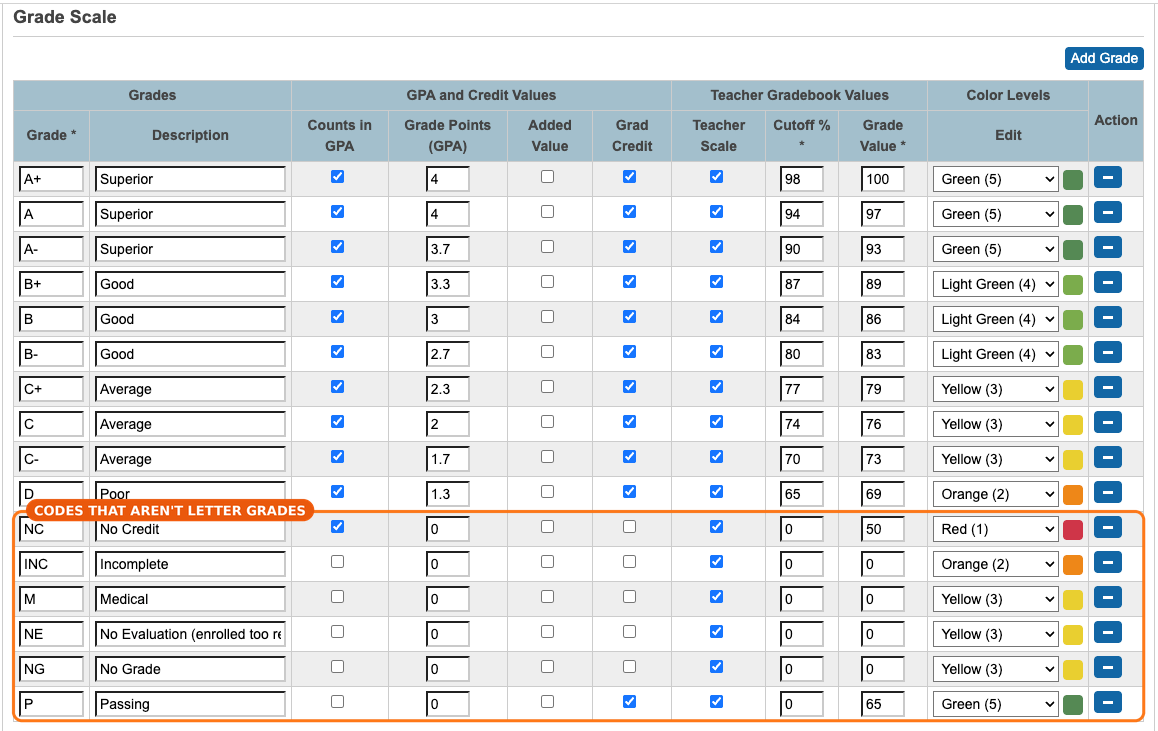
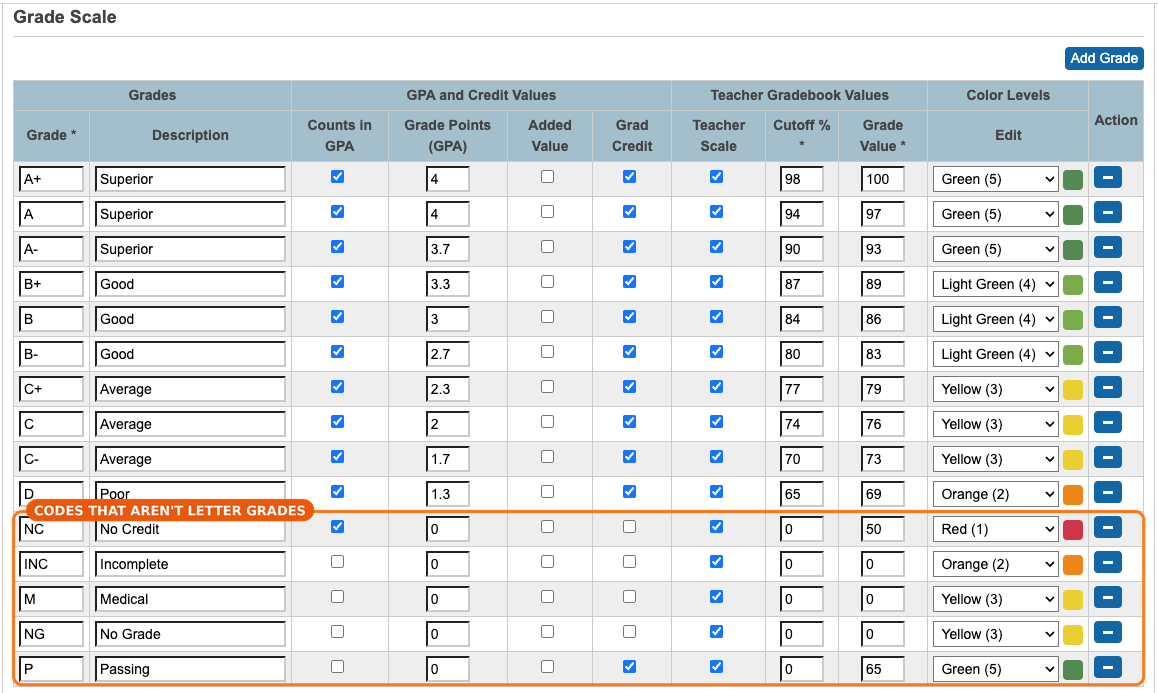
Report Cards: NG + two comments replaces NE

diff --git a/report-cards-admin.html b/report-cards-admin.html
@@ -152,7 +152,7 @@ body.narrow table.codes td.c{width:auto}
 <section class="step" id="step-4"><span class="eyebrow">STEP 4 OF 5</span><h2>Click Generate Reports</h2><ol class="steps"><li><span class="num">1</span><div>The blue <span class="ui">Generate Reports</span> button is at the end of the row.</div></li><li><span class="num">2</span><div>The cards open in a <b>new tab</b>.</div></li><li><span class="num">3</span><div>A big group takes a little while to load &mdash; wait for the buttons to show up in the box at the top left.</div></li></ol><div class="pager"><button class="ghost" data-go="step-3">Back</button><button data-go="step-5">Next: Print or Save as PDF &rarr;</button></div></section>
 
 <section class="step" id="step-5"><span class="eyebrow">STEP 5 OF 5</span><h2>Click Print, then pick a printer or Save as PDF</h2><ol class="steps"><li><span class="num">1</span><div>In the box at the top left, click <span class="ui">Print</span>.</div></li><li><span class="num">2</span><div>In the print window, <b>Layout</b> should already say <b>Landscape</b> and <b>Margins</b> <b>Default</b>.</div></li><li><span class="num">3</span><div>Pick your printer &mdash; or change <b>Destination</b> to <b>Save as PDF</b>.</div></li></ol><figure class="fig"><a href="rc-3.png" target="_blank" rel="noopener"><img src="rc-3.png" alt="the report cards in a new tab with the Print box"></a><div class="ph"><span class="pl">PICTURE 3</span>Screenshot coming: the report cards in a new tab with the Print box.</div><figcaption><b>PICTURE 3</b> &mdash; The report cards open in a new tab. Click Print in the box at the top left (the card is blurred here).</figcaption></figure><div class="callout"><div class="clabel">GOOD TO KNOW</div><div class="gk"><span class="ic">&#9995;</span><span>Skip <b>Email</b> and <b>Archive Reports</b>. Nicole saves each quarter's cards once &mdash; Email isn't used at Summit.</span></div><div class="gk"><span class="ic">&#128070;</span><span>Double-click a card to jump to that student's pages in PowerSchool.</span></div><div class="gk"><span class="ic">&#9998;&#65039;</span><span>Wrong grade or comment on a card? Ask the teacher to fix it in PowerTeacher Pro, then generate the card again. Still wrong? Reach out.</span></div></div><div class="pager"><button class="ghost" data-go="step-4">Back</button><button data-go="codes">Next: Grade codes on a card &rarr;</button></div></section>
-<section class="step" id="codes"><span class="eyebrow">REFERENCE</span><h2>Grade codes you&rsquo;ll see on a card</h2><p class="lead"><b>A+</b> to <b>D</b> are the regular letter grades. These are the codes that <b>aren&rsquo;t</b> letter grades &mdash; what each one means and whether it counts in GPA.</p><table class="codes"><thead><tr><th>CODE</th><th>MEANS</th><th>WHEN IT&rsquo;S USED</th><th>GPA</th></tr></thead><tbody><tr class="new"><td class="c">NE</td><td><b>No Evaluation</b></td><td>The student enrolled <b>too recently to be evaluated</b> &mdash; started days before the quarter ended. Prints with the comment <i>&ldquo;Enrolled too recently to be evaluated this quarter.&rdquo;</i></td><td class="g"><span class="pill no">NOT COUNTED</span></td></tr><tr><td class="c">NG</td><td><b>No Grade</b></td><td>The student was <b>enrolled but did not attend</b> the class &mdash; most often ESY / summer session. A placeholder, not a grade.</td><td class="g"><span class="pill no">NOT COUNTED</span></td></tr><tr><td class="c">INC</td><td><b>Incomplete</b></td><td>Work is still owed. The teacher replaces it with a real grade once the work is in.</td><td class="g"><span class="pill no">NOT COUNTED</span></td></tr><tr><td class="c">M</td><td><b>Medical</b></td><td>The student was out for medical reasons and could not be graded.</td><td class="g"><span class="pill no">NOT COUNTED</span></td></tr><tr><td class="c">NC</td><td><b>No Credit</b></td><td>The <b>failing grade</b> &mdash; below 65%, or no credit for the class (for example 30+ absences in a term). The only code that counts in GPA, as 0.</td><td class="g"><span class="pill yes">COUNTS &middot; 0 PTS</span></td></tr><tr><td class="c">P</td><td><b>Passing</b></td><td>Passed and earned credit, with no letter grade.</td><td class="g"><span class="pill no">NOT COUNTED</span></td></tr></tbody></table><figure class="fig"><a href="rc-4.png" target="_blank" rel="noopener"><img src="rc-4.png" alt="the Default grade scale in PowerSchool with the six non-letter codes boxed"></a><div class="ph"><span class="pl">PICTURE 4</span>Screenshot coming: the Default grade scale in PowerSchool.</div><figcaption><b>PICTURE 4</b> &mdash; Summit&rsquo;s Default grade scale (admin view): the Counts in GPA column is what decides whether a code touches GPA.</figcaption></figure><div class="callout"><div class="clabel">GOOD TO KNOW</div><div class="gk"><span class="ic">&#9888;&#65039;</span><span><b>A grade is never left blank.</b> An empty grade prints as an underscore ( _ ) on the card, which looks like a missing grade. A code with a comment is what&rsquo;s used instead.</span></div><div class="gk"><span class="ic">&#9998;&#65039;</span><span>Teachers enter these in PowerTeacher Pro (Score Inspector), the same way as a letter grade. The admin side is view-only.</span></div><div class="gk"><span class="ic">&#128197;</span><span><b>NE</b> only ever shows on that quarter&rsquo;s card &mdash; a too-new enrollment is left out when quarter grades are stored, so it never becomes a historical grade.</span></div></div><div class="pager"><button class="ghost" data-go="step-5">Back</button><button data-go="start">Start over</button></div></section>
+<section class="step" id="codes"><span class="eyebrow">REFERENCE</span><h2>Grade codes you&rsquo;ll see on a card</h2><p class="lead"><b>A+</b> to <b>D</b> are the regular letter grades. These are the codes that <b>aren&rsquo;t</b> letter grades &mdash; what each one means and whether it counts in GPA.</p><table class="codes"><thead><tr><th>CODE</th><th>MEANS</th><th>WHEN IT&rsquo;S USED</th><th>GPA</th></tr></thead><tbody><tr><td class="c">NG</td><td><b>No Grade</b></td><td>The student <b>couldn&rsquo;t earn credit, through no fault of their own</b>. The comment says why &mdash; pick the one that fits:<ul class="bul" style="margin-top:6px"><li><i>&ldquo;Enrolled too recently to earn credit this quarter.&rdquo;</i></li><li><i>&ldquo;Not enough class time to earn credit this quarter.&rdquo;</i></li></ul></td><td class="g"><span class="pill no">NOT COUNTED</span></td></tr><tr><td class="c">INC</td><td><b>Incomplete</b></td><td>Work is still owed. The teacher replaces it with a real grade once the work is in.</td><td class="g"><span class="pill no">NOT COUNTED</span></td></tr><tr><td class="c">M</td><td><b>Medical</b></td><td>The student was out for medical reasons and could not be graded.</td><td class="g"><span class="pill no">NOT COUNTED</span></td></tr><tr><td class="c">NC</td><td><b>No Credit</b></td><td>The <b>failing grade</b> &mdash; below 65%, or no credit for the class (for example 30+ absences in a term). The only code that counts in GPA, as 0.</td><td class="g"><span class="pill yes">COUNTS &middot; 0 PTS</span></td></tr><tr><td class="c">P</td><td><b>Passing</b></td><td>Passed and earned credit, with no letter grade.</td><td class="g"><span class="pill no">NOT COUNTED</span></td></tr></tbody></table><figure class="fig"><a href="rc-4.png" target="_blank" rel="noopener"><img src="rc-4.png" alt="the Default grade scale in PowerSchool with the non-letter codes boxed"></a><div class="ph"><span class="pl">PICTURE 4</span>Screenshot coming: the Default grade scale in PowerSchool.</div><figcaption><b>PICTURE 4</b> &mdash; Summit&rsquo;s Default grade scale (admin view): the Counts in GPA column is what decides whether a code touches GPA.</figcaption></figure><div class="callout"><div class="clabel">GOOD TO KNOW</div><div class="gk"><span class="ic">&#9888;&#65039;</span><span><b>A grade is never left blank.</b> An empty grade prints as an underscore ( _ ) on the card, which looks like a missing grade. A code with a comment is what&rsquo;s used instead.</span></div><div class="gk"><span class="ic">&#9998;&#65039;</span><span>Teachers enter these in PowerTeacher Pro (Score Inspector), the same way as a letter grade. The admin side is view-only.</span></div><div class="gk"><span class="ic">&#128197;</span><span><b>NG vs. NC:</b> NG = not the student&rsquo;s fault (too new, not enough class time). NC = the student didn&rsquo;t earn credit. Always add the NG comment so the card says why.</span></div></div><div class="pager"><button class="ghost" data-go="step-5">Back</button><button data-go="start">Start over</button></div></section>
 </main>
 </div>
 </div>
